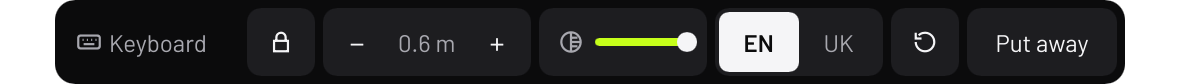
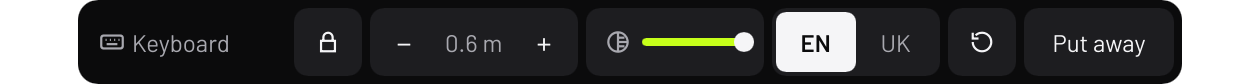
Wider toolbar, head-locked panels never fade near the eyes
- The toolbar is 1260 px (0.63 m, same scale): Room / Hand / Head get room on their sides again and the
  name chip and opacity slider are back to their old widths.
- Head-locked panels keep their distance from the eyes, so the lean-in fade leaves them (and their toolbar)
  alone.

diff --git a/crates/core/src/panel.rs b/crates/core/src/panel.rs
@@ -50,7 +50,7 @@ pub const MENU_ID: u32 = u32::MAX - 1;
 pub const MENU_WIDTH_M: f32 = 0.5;
 /// Fixed id of the toolbar panel.
 pub const TOOLBAR_ID: u32 = u32::MAX - 2;
-pub const TOOLBAR_WIDTH_M: f32 = 0.59;
+pub const TOOLBAR_WIDTH_M: f32 = 0.63;
 /// Gap between a panel's bottom edge and its toolbar.
 const TOOLBAR_GAP_M: f32 = 0.02;
 /// A panel dimmed this far is hidden and ignores the laser.
@@ -232,7 +232,10 @@ impl Panel {
     /// the head comes within `NEAR_FADE_M` of them, and are gone at `NEAR_GONE_M`, instead of being sliced off
     /// by the headset's near clip as you lean into them.
     pub fn near_fade(&self, world: Pose, eye: Vec3) -> f32 {
-        if !matches!(self.source, Source::Monitor(_) | Source::Window(_) | Source::Toolbar) {
+        // A head-locked panel keeps its distance from the eyes: it is never leaned into.
+        if !matches!(self.source, Source::Monitor(_) | Source::Window(_) | Source::Toolbar)
+            || self.anchor == Anchor::Head
+        {
             return 1.0;
         }
         let local = world.inverse().transform_point(eye);
@@ -493,7 +496,7 @@ mod tests {
     #[test]
     fn toolbar_stays_while_the_laser_crosses_the_gap() {
         let screen = Panel::new(5, Source::Monitor(0), Pose::IDENTITY, 1.0, 0.5);
-        let bar = 84.0 / 1180.0;
+        let bar = 84.0 / 1260.0;
         let ray = |y: f32| Pose::new(Vec3::new(0.0, y, 1.0), Quat::default());
         assert!(screen.toolbar_bridge(Pose::IDENTITY, ray(-0.26), bar).is_some(), "just below the screen, in the gap");
         assert!(screen.toolbar_bridge(Pose::IDENTITY, ray(-0.29), bar).is_some(), "on the toolbar");
@@ -514,6 +517,8 @@ mod tests {
         assert_eq!(screen.near_fade(Pose::IDENTITY, Vec3::new(1.0, 0.0, 0.05)), 1.0);
         let keys = Panel::new(6, Source::Keyboard, Pose::IDENTITY, 1.0, 0.5);
         assert_eq!(keys.near_fade(Pose::IDENTITY, Vec3::new(0.0, 0.0, 0.05)), 1.0, "the keyboard stays");
+        let hud = Panel { anchor: Anchor::Head, ..screen };
+        assert_eq!(hud.near_fade(Pose::IDENTITY, Vec3::new(0.0, 0.0, 0.2)), 1.0, "a head-locked panel stays");
     }
 
     #[test]

diff --git a/crates/ui/src/toolbar.rs b/crates/ui/src/toolbar.rs
@@ -24,7 +24,7 @@ slint::slint! {
         in property <[ToolView]> tools;
         callback clicked(int);
         callback slid(int, float);
-        width: 1180px;
+        width: 1260px;
         height: 84px;
         background: transparent;
         Rectangle {
@@ -97,7 +97,7 @@ slint::slint! {
     }
 }
 
-pub const TOOLBAR_SIZE: (u32, u32) = (1180, 84);
+pub const TOOLBAR_SIZE: (u32, u32) = (1260, 84);
 
 /// How a toolbar control looks.
 #[derive(Clone, Copy, Debug, Default, PartialEq, Eq)]
@@ -169,7 +169,7 @@ impl ToolbarModel {
 const PAD: f32 = 8.0;
 const ITEM: f32 = 60.0;
 const BIG: f32 = 68.0;
-const CHIP: f32 = 176.0;
+const CHIP: f32 = 200.0;
 
 /// Packs controls left to right, then centres the bar in the toolbar.
 #[derive(Default)]
@@ -204,7 +204,7 @@ impl ToolbarLayout {
             .into_iter()
             .map(|(t, w)| {
                 let w = w.unwrap_or(match t.kind {
-                    ToolKind::Slider => 160.0,
+                    ToolKind::Slider => 170.0,
                     ToolKind::Readout => 80.0,
                     _ => ITEM,
                 });

diff --git a/crates/app/src/session.rs b/crates/app/src/session.rs
@@ -739,7 +739,7 @@ impl Session {
                 pins.iter()
                     .map(|(pin, id)| {
                         tools.push(Tool::Pin(*pin));
-                        (b(ToolKind::Segment, t(id), "").on(*pin == now), Some(76.0))
+                        (b(ToolKind::Segment, t(id), "").on(*pin == now), Some(92.0))
                     })
                     .collect(),
             );
